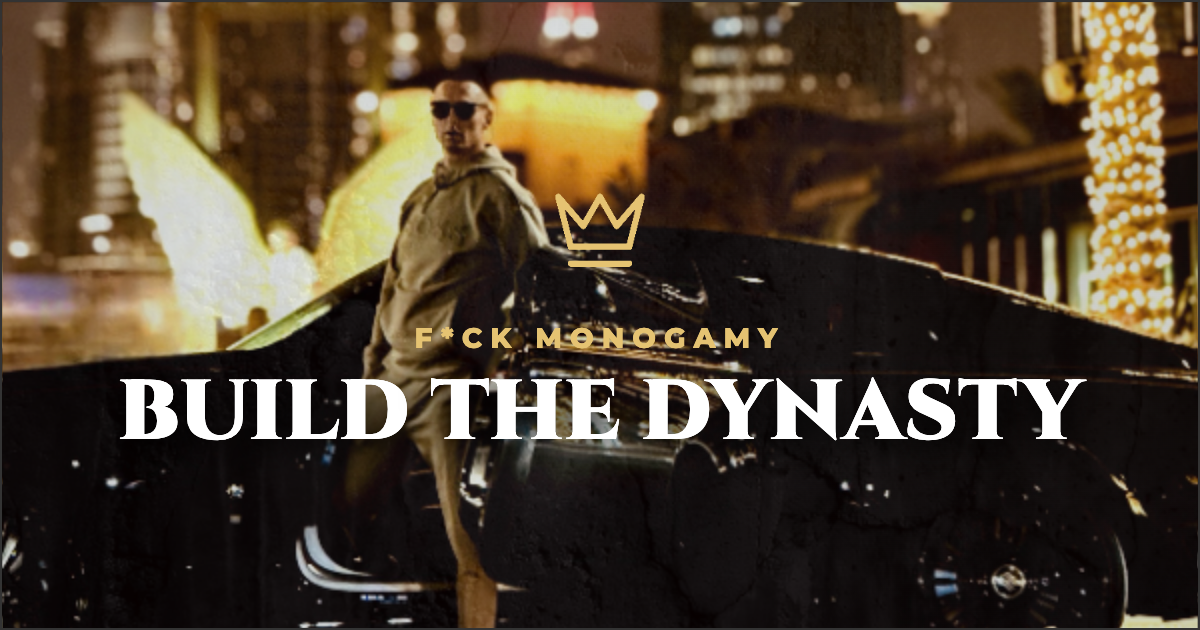
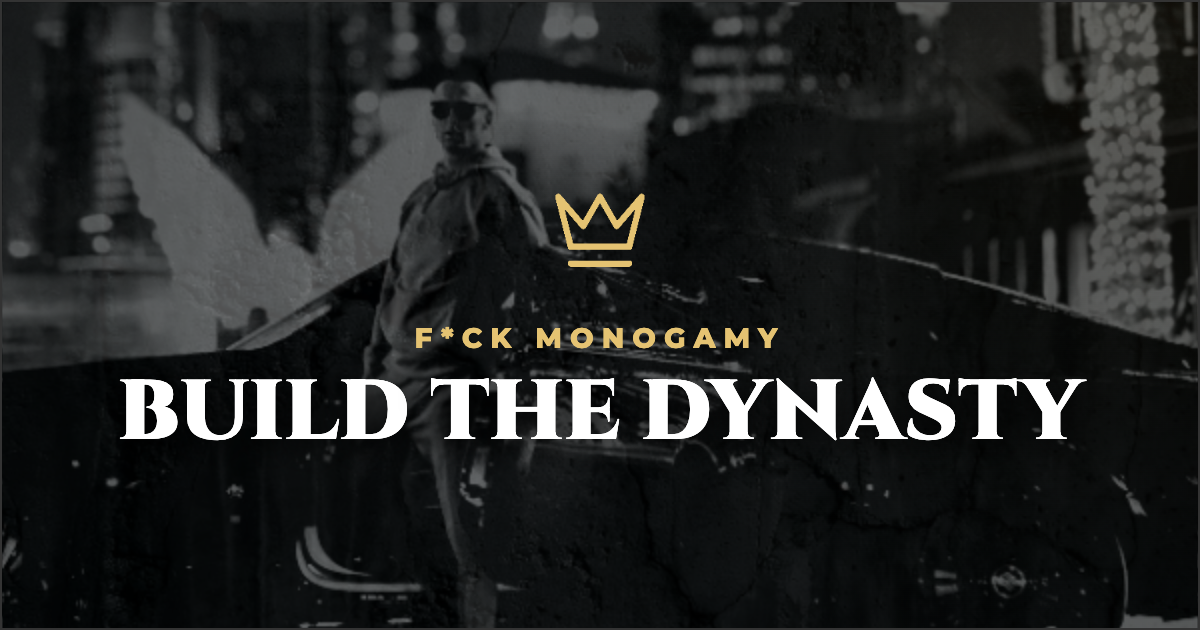
Update images and other changes

diff --git a/public/gens/tdc-socialengine3.html b/public/gens/tdc-socialengine3.html
@@ -3,7 +3,7 @@
 <head>
     <meta charset="UTF-8">
     <meta name="viewport" content="width=device-width, initial-scale=1.0">
-    <title>The Dominus Code | Social Asset Factory V42</title>
+    <title>The Dominus Code | Social Asset Factory V43</title>
     
     <!-- FONTS -->
     <link rel="preconnect" href="https://fonts.googleapis.com">
@@ -26,6 +26,7 @@
             
             /* DYNAMIC VARS */
             --bg-op: 0.5;
+            /* Story BG handled by JS injection now */
 
             /* ASSET DIMENSIONS */
             --print-width: 1052px; 
@@ -232,8 +233,7 @@
             top: 0; left: 0; right: 0; bottom: 0;
             background-size: cover;
             background-position: center;
-            /* GRAIN/BW FILTER RESTORED */
-            filter: grayscale(100%) contrast(1.2) brightness(0.4);
+            /* REMOVED CSS FILTER - FILTER IS NOW BAKED IN VIA JS */
             z-index: 0 !important;
             pointer-events: none;
         }
@@ -798,9 +798,8 @@
             top: 0; left: 0; right: 0; bottom: 0;
             background-size: cover;
             background-position: center;
-            filter: grayscale(100%) contrast(1.2) brightness(0.4);
-            z-index: 0 !important; /* FIXED: Put at bottom */
-            /* Will be set by JS */
+            /* Filter is now applied via JS Canvas */
+            z-index: 0 !important; 
         }
         #og-story .og-content {
             display: flex;
@@ -1205,6 +1204,7 @@
             <div class="label">OG STORY (Photo BG)</div>
             <div id="og-story" class="texture-bg">
                 <div class="story-bg-layer"></div>
+                <div class="texture-layer"></div>
                 <div class="sheen-layer"></div>
                 <div class="og-content">
                     <img class="crown-img logo-target" src="" alt="">
@@ -1287,20 +1287,44 @@
             reader.readAsDataURL(file);
         });
         
-        // STORY BG HANDLER - Direct Injection
+        // STORY BG HANDLER - Direct Injection WITH PRE-PROCESSING
         document.getElementById('in-story-bg').addEventListener('change', function(e) {
             const file = e.target.files[0];
             if(!file) return;
             const reader = new FileReader();
             reader.onload = function(event) {
-                const layer = document.querySelector('#og-story .story-bg-layer');
-                if(layer) layer.style.backgroundImage = `url(${event.target.result})`;
-                
-                // UI Feedback
-                const statusBtn = document.getElementById('story-upload-btn');
-                statusBtn.innerText = "IMAGE LOADED";
-                statusBtn.style.color = "#E5C372";
-                statusBtn.style.borderColor = "#E5C372";
+                // Create an image object to load the file
+                const img = new Image();
+                img.onload = function() {
+                    // Create a canvas to process the filters
+                    const canvas = document.createElement('canvas');
+                    const ctx = canvas.getContext('2d');
+                    
+                    // Set canvas size to match image
+                    canvas.width = img.width;
+                    canvas.height = img.height;
+                    
+                    // Apply filters via Context2D (Bakes them into the pixels)
+                    // Matches CSS: grayscale(100%) contrast(1.2) brightness(0.4)
+                    ctx.filter = 'grayscale(100%) contrast(1.2) brightness(0.4)';
+                    
+                    // Draw image with filter
+                    ctx.drawImage(img, 0, 0, img.width, img.height);
+                    
+                    // Get processed Data URL
+                    const processedUrl = canvas.toDataURL('image/jpeg', 0.9);
+                    
+                    // Apply to Layer
+                    const layer = document.querySelector('#og-story .story-bg-layer');
+                    if(layer) layer.style.backgroundImage = `url(${processedUrl})`;
+                    
+                    // UI Feedback
+                    const statusBtn = document.getElementById('story-upload-btn');
+                    statusBtn.innerText = "IMAGE PROCESSED & LOADED";
+                    statusBtn.style.color = "#E5C372";
+                    statusBtn.style.borderColor = "#E5C372";
+                };
+                img.src = event.target.result;
             }
             reader.readAsDataURL(file);
         });
